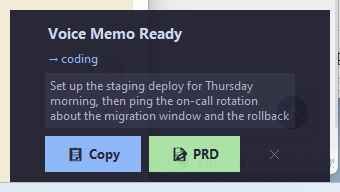
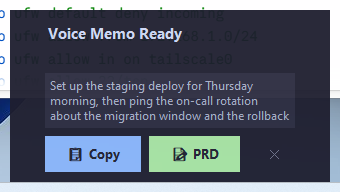
Remove Discord relay and keyword routing entirely (was personal legacy); overlay no longer shows channel labels

Changed region(s): [[0.0, 0.0, 0.5, 0.9688], [0.9706, 0.0, 1.0, 0.9688], [0.1471, 0.2812, 0.2941, 0.3438]]

diff --git a/voice_hotkey.py b/voice_hotkey.py
@@ -147,33 +147,8 @@ except Exception as _e:
 # ---------------------------------------------------------------------------
 # Secrets
 # ---------------------------------------------------------------------------
-def _read_bot_token() -> str | None:
-    # Archived 2026-09-03: the Discord relay existed to reach agents on a
-    # different machine. The agents now run locally, so no token is loaded
-    # and send_to_discord() is never called. secrets/.env may still contain
-    # DISCORD_BOT_TOKEN — it is ignored (safe to delete that line).
-    return None
-
-
-BOT_TOKEN = _read_bot_token()  # None is OK — webhook may still work
-DISCORD_API = "https://discord.com/api/v10"
-
-
-def _load_webhook_url() -> str | None:
-    webhook_file = APP_DIR / "webhooks.json"
-    if not webhook_file.exists():
-        return None
-    try:
-        data = json.loads(webhook_file.read_text(encoding="utf-8"))
-        url = data.get("general")
-        return url if isinstance(url, str) and url else None
-    except (OSError, json.JSONDecodeError):
-        return None
-
-
-WEBHOOK_URL = None  # Discord relay archived 2026-09-03 — webhooks.json ignored (see _read_bot_token)
-
-
+# Discord relay fully removed 2026-09-03 (was: route memos to channels for
+# agents on another machine). Only OPENAI_API_KEY is used, as cloud fallback.
 def get_openai_key() -> str:
     return get_secret("OPENAI_API_KEY") or ""
 
@@ -231,95 +206,6 @@ def rotate_prd_archive_if_needed() -> None:
             except OSError: pass
     except OSError:
         pass
-
-
-# ---------------------------------------------------------------------------
-# Channel routing
-# ---------------------------------------------------------------------------
-def route_message(text: str) -> dict:
-    """Return the matching rule dict, or default_channel if none match.
-
-    First-match-wins. The config comment in config.json.template says so;
-    keep this in sync if you change the rules engine.
-    """
-    text_lower = text.lower()
-    for rule in CONFIG.get("routing_rules", []):
-        for kw in rule.get("keywords", []):
-            if kw.lower() in text_lower:
-                return rule
-    return CONFIG["default_channel"]
-
-
-# ---------------------------------------------------------------------------
-# Discord send
-# ---------------------------------------------------------------------------
-def discord_headers() -> dict:
-    return {
-        "Authorization": f"Bot {BOT_TOKEN or ''}",
-        "User-Agent": f"VoxPRD/{APP_VERSION}",
-    }
-
-
-def _format_memo(text: str) -> str:
-    return f"**Voice memo** ({len(text.split())} words):\n> {text}"
-
-
-def send_to_discord(channel_id: str, text: str, audio_path: str | None = None,
-                    target_agent: str | None = None) -> bool:
-    """Send a message (with optional audio attachment) to a Discord channel.
-
-    Prefers webhook (so the message appears from 'VoxPRD Voice' instead of
-    the bot itself, which makes downstream agents actually respond to it).
-    Falls back to bot token if no webhook configured.
-
-    `target_agent` is included in the Discord content so the receiving agent
-    can route based on intent (bastion, screenplay, fleet, general, ...).
-    """
-    if not BOT_TOKEN and not WEBHOOK_URL:
-        notify("No Discord credentials — copied to clipboard instead", "Voice Hotkey")
-        try:
-            _copy_to_clipboard(text)
-        except Exception:
-            pass
-        return False
-
-    formatted = _format_memo(text)
-    if target_agent and target_agent != "general":
-        formatted = f"@`{target_agent}` {formatted}"
-
-    if WEBHOOK_URL:
-        try:
-            if audio_path and os.path.isfile(audio_path):
-                with open(audio_path, "rb") as af:
-                    files = {"file": ("voice_memo.wav", af, "audio/wav")}
-                    data = {"content": formatted, "username": "VoxPRD Voice"}
-                    resp = requests.post(WEBHOOK_URL, data=data, files=files, timeout=30)
-            else:
-                resp = requests.post(
-                    WEBHOOK_URL,
-                    json={"content": formatted, "username": "VoxPRD Voice"},
-                    timeout=15,
-                )
-            resp.raise_for_status()
-            return True
-        except requests.RequestException as e:
-            notify(f"Webhook error, falling back to bot: {e}", "Voice Hotkey")
-
-    url = f"{DISCORD_API}/channels/{channel_id}/messages"
-    payload = {"content": formatted}
-    try:
-        if audio_path and os.path.isfile(audio_path):
-            with open(audio_path, "rb") as af:
-                files = {"file": ("voice_memo.wav", af, "audio/wav")}
-                data = {"payload_json": json.dumps(payload)}
-                resp = requests.post(url, headers=discord_headers(), data=data, files=files, timeout=30)
-        else:
-            resp = requests.post(url, headers=discord_headers(), json=payload, timeout=15)
-        resp.raise_for_status()
-        return True
-    except requests.RequestException as e:
-        notify(f"Discord error: {e}", "Voice Hotkey Error")
-        return False
 
 
 # ---------------------------------------------------------------------------
@@ -795,7 +681,7 @@ class SendCopyOverlay:
                  font=("Segoe UI", 11, "bold"), fg="#CDD6F4", bg="#1E1E2E",
                  anchor="w")
         self._title_label.pack(fill="x")
-        self._channel_var = tk.StringVar(value="→ general")
+        self._channel_var = tk.StringVar(value="")
         self._channel_label = tk.Label(self._frame, textvariable=self._channel_var,
                  font=("Segoe UI", 9), fg="#89B4FA", bg="#1E1E2E",
                  anchor="w")
@@ -961,13 +847,13 @@ class SendCopyOverlay:
         except Exception:
             pass
 
-    def prompt(self, text: str, channel_name: str) -> str:
-        """Show overlay; block until the user clicks a button (or auto-send)."""
+    def prompt(self, text: str) -> str:
+        """Show overlay; block until the user clicks a button (or auto-copy)."""
         self._result = None
         self._result_event.clear()
         if not self._root:
-            return "send"
-        _ui.run(lambda: self._do_show(text, channel_name, self._auto_send_timeout))
+            return "copy"
+        _ui.run(lambda: self._do_show(text, self._auto_send_timeout))
         # Block until user clicks (or auto-copy fires)
         if self._auto_send_timeout > 0:
             self._result_event.wait(timeout=self._auto_send_timeout + 2)
@@ -978,7 +864,7 @@ class SendCopyOverlay:
             self._result_event.wait()
         return self._result or "copy"
 
-    def _do_show(self, text: str, channel_name: str, timeout: int):
+    def _do_show(self, text: str, timeout: int):
         if not self._root: return
         self._reset_theme()
         self._preview_text.config(state="normal")
@@ -987,7 +873,7 @@ class SendCopyOverlay:
         self._preview_text.config(state="disabled")
         line_count = min(8, max(3, len(text) // 60 + 1))
         self._preview_text.config(height=line_count)
-        self._channel_var.set(f"→ {channel_name}")
+        self._channel_var.set("")  # routing labels removed; PRD states set their own
         self._root.update_idletasks()
         w = max(self._root.winfo_reqwidth(), 320)
         h = self._root.winfo_reqheight()
@@ -1414,43 +1300,30 @@ class Recorder:
             notify("No transcription text", "Voice Hotkey")
             return
 
-        rule = route_message(text)
-        channel_id = rule.get("channel_id", "")
-        channel_name = rule.get("name", "general")
-        target_agent = rule.get("target_agent", channel_name)
-
         if _send_copy_overlay is None:
             notify("UI not ready yet — try again in a moment", "Voice Hotkey")
             return
 
-        choice = _send_copy_overlay.prompt(text, channel_name)
+        choice = _send_copy_overlay.prompt(text)
 
         if choice == "dismiss":
-            return
-        if choice == "copy":
-            try:
-                _copy_to_clipboard(text)
-                notify(f"Copied! Backup: {LAST_TRANSCRIPTION_PATH.name}", "Voice Hotkey")
-            except Exception as e:
-                notify(f"Copy failed: {e}", "Voice Hotkey Error")
             return
         if choice == "prd":
             threading.Thread(
                 target=self._run_prd_flow,
-                args=(text, channel_id, channel_name, target_agent, audio_path),
+                args=(text, audio_path),
                 daemon=True,
             ).start()
             return
 
-        # Default: copy (Discord send archived 2026-09-03 — agents are local)
+        # Default: copy
         try:
             _copy_to_clipboard(text)
             notify(f"Copied! Backup: {LAST_TRANSCRIPTION_PATH.name}", "Voice Hotkey")
         except Exception as e:
             notify(f"Copy failed: {e}", "Voice Hotkey Error")
 
-    def _run_prd_flow(self, text: str, channel_id: str, channel_name: str,
-                      target_agent: str, audio_path: str | None) -> None:
+    def _run_prd_flow(self, text: str, audio_path: str | None = None) -> None:
         chain = [dict(c) for c in CONFIG.get("prd", {}).get("providers", [])]
         if not chain:
             notify("No PRD providers configured", "Voice Hotkey Error")
@@ -1492,38 +1365,6 @@ class Recorder:
         else:
             notify(f"PRD ready (via {prd_result.provider}, {prd_result.duration_s:.0f}s)",
                    "Voice Hotkey", timeout=4)
-
-        # If the PRD was for a Discord-routed topic, optionally post the markdown to the channel
-        if CONFIG.get("prd_auto_post_to_channel", False):
-            ok = send_to_discord(
-                channel_id, prd_text,
-                audio_path=None,
-                target_agent=target_agent,
-            )
-            if ok:
-                notify(f"PRD also posted to #{channel_name}", "Voice Hotkey")
-
-    def _push_to_scaffolding_daemon(self, text: str, channel_id: str,
-                                    channel_name: str, target_agent: str) -> None:
-        """Best-effort direct push to the local Bastion daemon.
-
-        Skipped if daemon is down; the daemon's own poll cycle will catch up.
-        """
-        url = CONFIG.get("scaffolding_daemon_url", "http://127.0.0.1:8097/api/voice-memo")
-        try:
-            requests.post(
-                url,
-                json={
-                    "transcription": text,
-                    "msg_id": "direct-push",
-                    "channel_id": channel_id,
-                    "channel_name": channel_name,
-                    "target_agent": target_agent,
-                },
-                timeout=3,
-            )
-        except requests.RequestException as e:
-            log_error(f"Scaffolding daemon push failed (will retry on poll): {e}")
 
 
 # ---------------------------------------------------------------------------
@@ -1834,7 +1675,7 @@ def main() -> None:
             return
         threading.Thread(
             target=recorder._run_prd_flow,
-            args=(text, "", "general", "general", None),
+            args=(text, None),
             daemon=True,
         ).start()
 

diff --git a/prompts.py b/prompts.py
@@ -120,12 +120,3 @@ Intent is a personal creative-writing tool with character-arc
 tracking. Suggests Obsidian-plugin or local-only web app as
 deployment. Skips enterprise features the user didn't ask for.
 """
-
-
-# ---------------------------------------------------------------------------
-# Routing / channel classification (used by tests; live code uses keyword match)
-# ---------------------------------------------------------------------------
-
-ROUTING_SYSTEM_PROMPT = """You classify a voice transcription into the
-right Discord channel based on intent. Reply with ONLY the channel name
-from the allowed list, nothing else. If none fit, reply with 'default'."""

diff --git a/README.md b/README.md
@@ -141,20 +141,13 @@ For auto-start at login: `Win+R` → `shell:startup` → paste a shortcut to
       { "type": "openai_compatible", "name": "my-llm", "url": "http://YOUR_LLM_HOST:8000/v1", "model": "YOUR_MODEL", "timeout": 300, "max_tokens": 16384, "temperature": 0.3 },
       { "type": "openai", "name": "openai-cloud", "model": "gpt-4o", "timeout": 300, "max_tokens": 16384 }
     ]
-  },
-
-  "routing_rules": [
-    { "name": "coding", "keywords": ["build", "fix", "deploy", "server"] },
-    { "name": "writing", "keywords": ["story", "script", "scene"] }
-  ],
-  "default_channel": { "name": "general" }
+  }
 }
 ```
 
-Routing is **first-match-wins**; it only labels memos today. If `url` is
-on a private network (RFC1918), no API key is required for `fleet`
-providers. Keep `max_tokens` generous (16k) — reasoning models spend much
-of the budget on invisible thinking before writing.
+If `url` is on a private network (RFC1918), no API key is required for
+`fleet` providers. Keep `max_tokens` generous (16k) — reasoning models
+spend much of the budget on invisible thinking before writing.
 
 ## Speech-to-text engines
 
